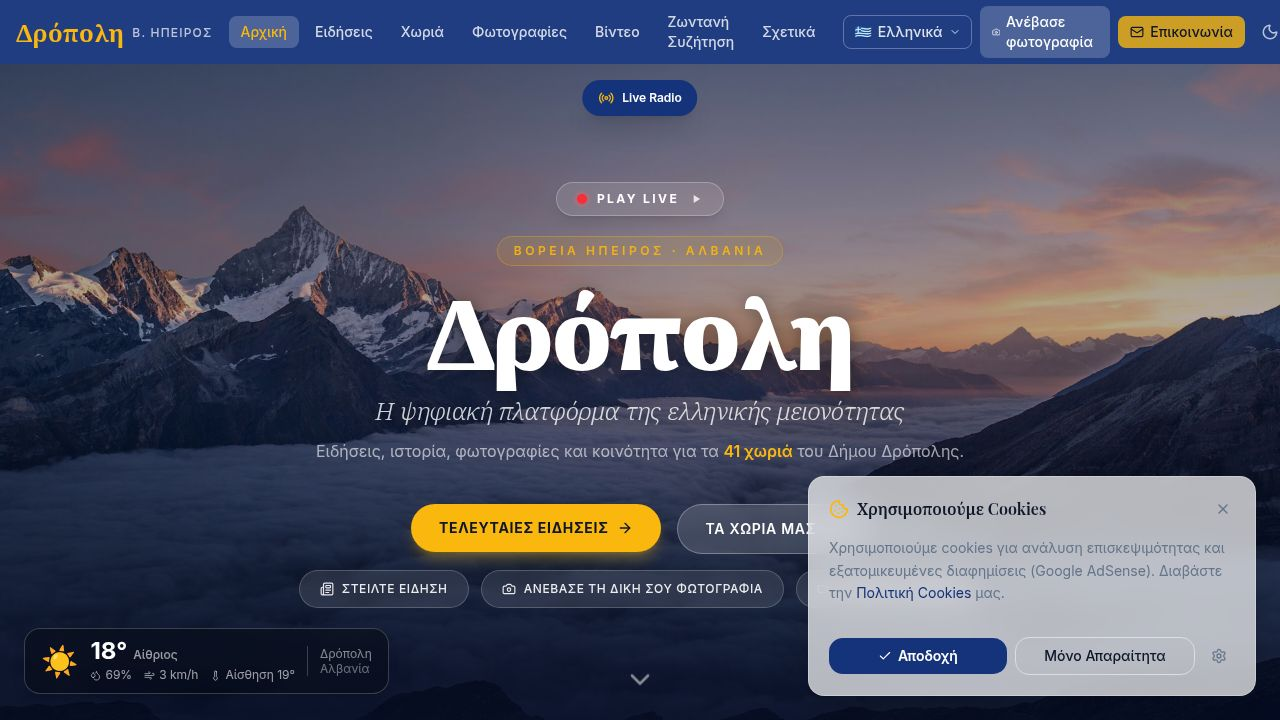
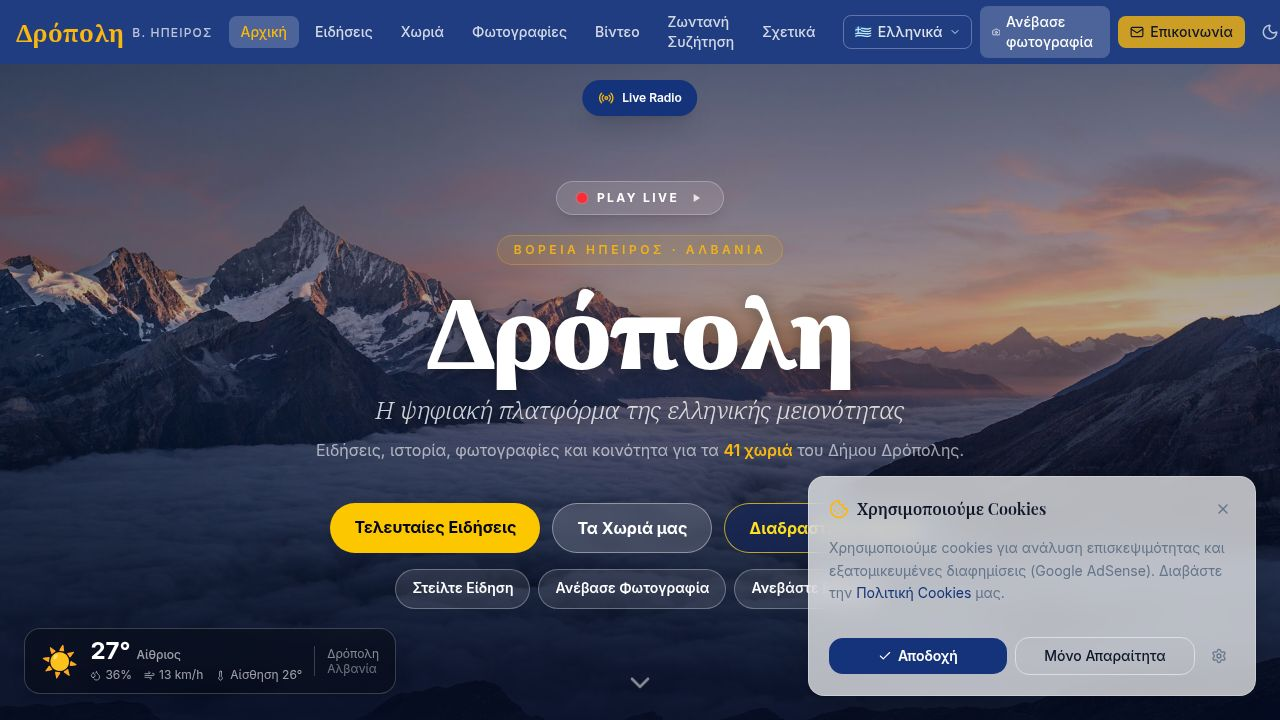
Add automatic Facebook posting for newly published articles
Integrates a Facebook posting service into the article publishing flow, automatically sharing new articles to a Facebook page via the Graph API upon publication. Handles POST requests for new articles and PATCH requests, specifically triggering the post only when an article's published status transitions from false to true.

Replit-Commit-Author: Agent
Replit-Commit-Session-Id: 00749ae3-9384-46a4-b413-b650406755a2
Replit-Commit-Checkpoint-Type: full_checkpoint
Replit-Commit-Event-Id: 1f426a41-1cc1-42a1-92b4-ef3081ad060c
Replit-Commit-Screenshot-Url: https://storage.googleapis.com/screenshot-production-us-central1/e6dc6ead-03bf-40e2-8a11-fd760c7f2884/00749ae3-9384-46a4-b413-b650406755a2/WiQ7eI9
Replit-Helium-Checkpoint-Created: true

diff --git a/artifacts/api-server/src/routes/articles.ts b/artifacts/api-server/src/routes/articles.ts
@@ -72,6 +72,7 @@ router.post("/articles", requireAdmin, async (req, res) => {
       updatedAt: article.updatedAt.toISOString(),
     });
     void autoIndexArticle(article.id);
+    void postArticleToFacebook(article);
   }
   res.status(201).json(formatArticle(article));
 });
@@ -134,6 +135,11 @@ router.get("/articles/:id", async (req, res) => {
 router.patch("/articles/:id", requireAdmin, async (req, res) => {
   const { id } = UpdateArticleParams.parse({ id: Number(req.params.id) });
   const body = UpdateArticleBody.parse(req.body);
+
+  // Read current published state before update to detect false → true transition
+  const [existing] = await db.select({ published: articlesTable.published }).from(articlesTable).where(eq(articlesTable.id, id));
+  const wasPublished = existing?.published ?? false;
+
   const [article] = await db
     .update(articlesTable)
     .set({ ...body, updatedAt: new Date() })
@@ -156,6 +162,10 @@ router.patch("/articles/:id", requireAdmin, async (req, res) => {
       updatedAt: article.updatedAt.toISOString(),
     });
     void autoIndexArticle(article.id);
+    // Only post to Facebook when an article goes from draft → published
+    if (!wasPublished) {
+      void postArticleToFacebook(article);
+    }
   } else {
     void removeArticlePrerender(article.id);
     invalidateSitemapManifestCache();